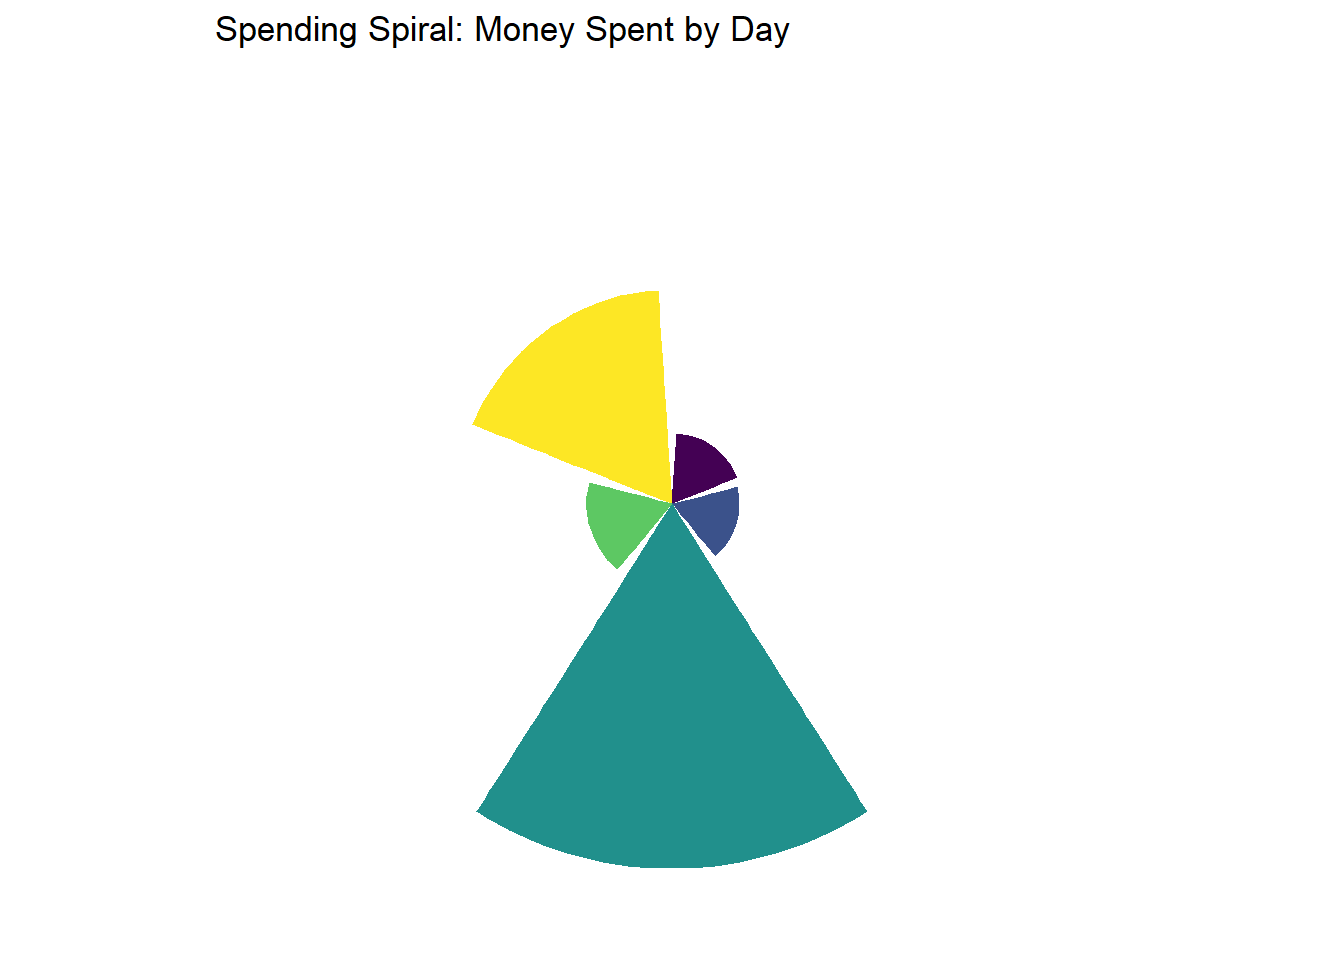
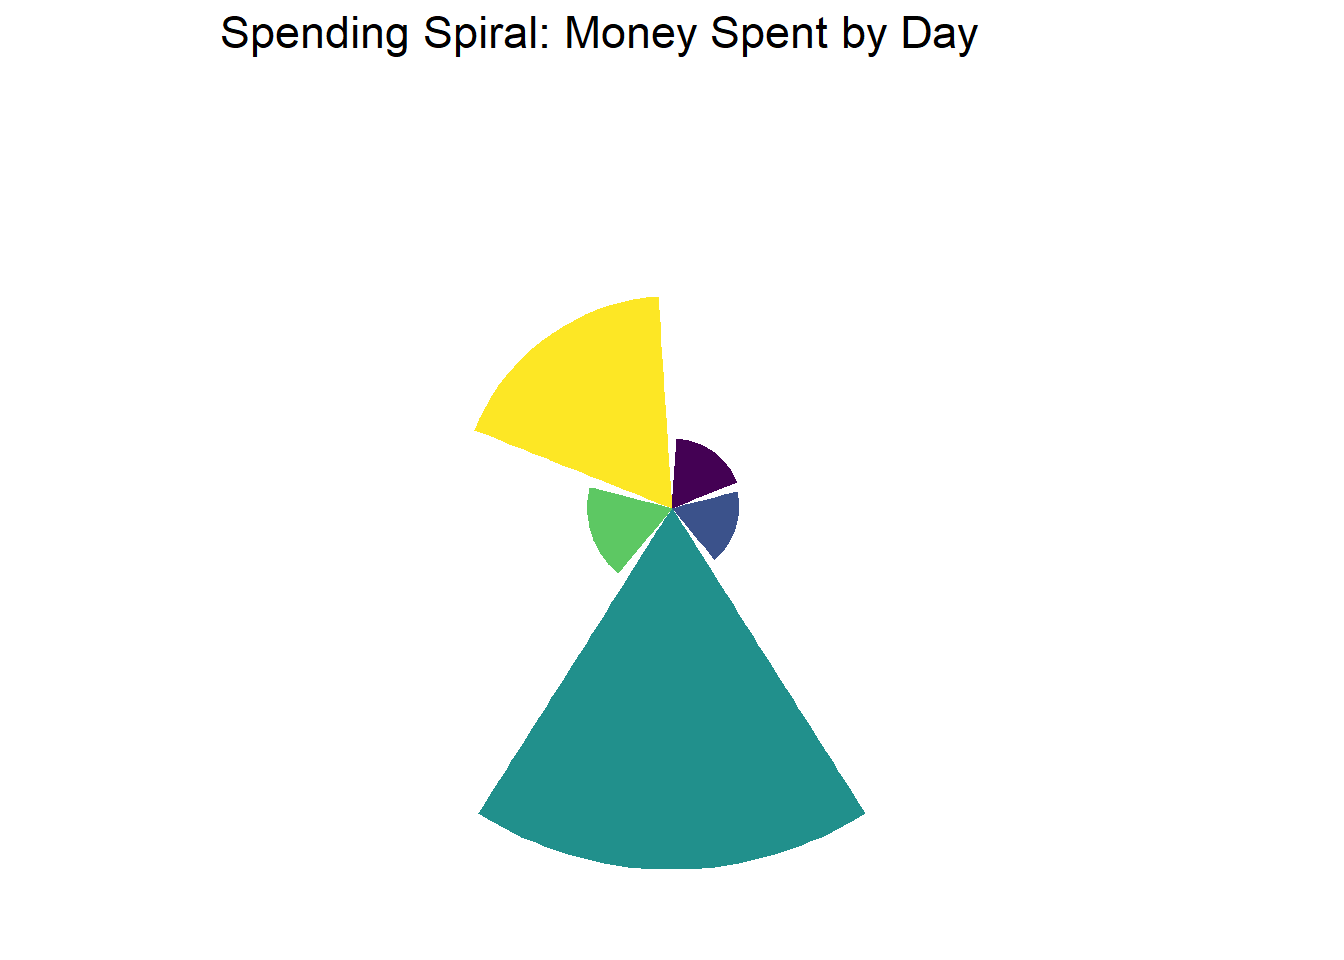
fixing something with my circle graph code and answering part 3b.

diff --git a/code/DS Homework 3.html b/code/DS Homework 3.html
@@ -176,7 +176,7 @@ pre > code.sourceCode > span > a:first-child::before { text-decoration: underlin
 <span id="cb4-6"><a href="#cb4-6" aria-hidden="true" tabindex="-1"></a>  <span class="fu">autofit</span>() <span class="sc">|&gt;</span> </span>
 <span id="cb4-7"><a href="#cb4-7" aria-hidden="true" tabindex="-1"></a>  <span class="fu">set_caption</span>(<span class="st">"Table 1. Average money spent on campus by weekday."</span>) <span class="co">#creating a caption for the table</span></span></code><button title="Copy to Clipboard" class="code-copy-button"><i class="bi"></i></button></pre></div>
 <div class="cell-output-display">
-<div class="tabwid"><style>.cl-f5296f3e{}.cl-f501cd9e{font-family:'Arial';font-size:11pt;font-weight:normal;font-style:normal;text-decoration:none;color:rgba(0, 0, 0, 1.00);background-color:transparent;}.cl-f511bfd8{margin:0;text-align:left;border-bottom: 0 solid rgba(0, 0, 0, 1.00);border-top: 0 solid rgba(0, 0, 0, 1.00);border-left: 0 solid rgba(0, 0, 0, 1.00);border-right: 0 solid rgba(0, 0, 0, 1.00);padding-bottom:5pt;padding-top:5pt;padding-left:5pt;padding-right:5pt;line-height: 1;background-color:transparent;}.cl-f511c000{margin:0;text-align:right;border-bottom: 0 solid rgba(0, 0, 0, 1.00);border-top: 0 solid rgba(0, 0, 0, 1.00);border-left: 0 solid rgba(0, 0, 0, 1.00);border-right: 0 solid rgba(0, 0, 0, 1.00);padding-bottom:5pt;padding-top:5pt;padding-left:5pt;padding-right:5pt;line-height: 1;background-color:transparent;}.cl-f5125254{width:1.16in;background-color:transparent;vertical-align: middle;border-bottom: 1.5pt solid rgba(102, 102, 102, 1.00);border-top: 1.5pt solid rgba(102, 102, 102, 1.00);border-left: 0 solid rgba(0, 0, 0, 1.00);border-right: 0 solid rgba(0, 0, 0, 1.00);margin-bottom:0;margin-top:0;margin-left:0;margin-right:0;}.cl-f5125268{width:1.542in;background-color:transparent;vertical-align: middle;border-bottom: 1.5pt solid rgba(102, 102, 102, 1.00);border-top: 1.5pt solid rgba(102, 102, 102, 1.00);border-left: 0 solid rgba(0, 0, 0, 1.00);border-right: 0 solid rgba(0, 0, 0, 1.00);margin-bottom:0;margin-top:0;margin-left:0;margin-right:0;}.cl-f5125272{width:1.16in;background-color:transparent;vertical-align: middle;border-bottom: 0 solid rgba(0, 0, 0, 1.00);border-top: 0 solid rgba(0, 0, 0, 1.00);border-left: 0 solid rgba(0, 0, 0, 1.00);border-right: 0 solid rgba(0, 0, 0, 1.00);margin-bottom:0;margin-top:0;margin-left:0;margin-right:0;}.cl-f5125273{width:1.542in;background-color:transparent;vertical-align: middle;border-bottom: 0 solid rgba(0, 0, 0, 1.00);border-top: 0 solid rgba(0, 0, 0, 1.00);border-left: 0 solid rgba(0, 0, 0, 1.00);border-right: 0 solid rgba(0, 0, 0, 1.00);margin-bottom:0;margin-top:0;margin-left:0;margin-right:0;}.cl-f512527c{width:1.16in;background-color:transparent;vertical-align: middle;border-bottom: 1.5pt solid rgba(102, 102, 102, 1.00);border-top: 0 solid rgba(0, 0, 0, 1.00);border-left: 0 solid rgba(0, 0, 0, 1.00);border-right: 0 solid rgba(0, 0, 0, 1.00);margin-bottom:0;margin-top:0;margin-left:0;margin-right:0;}.cl-f5125286{width:1.542in;background-color:transparent;vertical-align: middle;border-bottom: 1.5pt solid rgba(102, 102, 102, 1.00);border-top: 0 solid rgba(0, 0, 0, 1.00);border-left: 0 solid rgba(0, 0, 0, 1.00);border-right: 0 solid rgba(0, 0, 0, 1.00);margin-bottom:0;margin-top:0;margin-left:0;margin-right:0;}</style><table data-quarto-disable-processing="true" class="cl-f5296f3e"><thead><tr style="overflow-wrap:break-word;"><th class="cl-f5125254"><p class="cl-f511bfd8"><span class="cl-f501cd9e">Day of Week</span></p></th><th class="cl-f5125268"><p class="cl-f511c000"><span class="cl-f501cd9e">Mean Spending($)</span></p></th></tr></thead><tbody><tr style="overflow-wrap:break-word;"><td class="cl-f5125272"><p class="cl-f511bfd8"><span class="cl-f501cd9e">Friday</span></p></td><td class="cl-f5125273"><p class="cl-f511c000"><span class="cl-f501cd9e">5.875</span></p></td></tr><tr style="overflow-wrap:break-word;"><td class="cl-f5125272"><p class="cl-f511bfd8"><span class="cl-f501cd9e">Monday</span></p></td><td class="cl-f5125273"><p class="cl-f511c000"><span class="cl-f501cd9e">2.875</span></p></td></tr><tr style="overflow-wrap:break-word;"><td class="cl-f5125272"><p class="cl-f511bfd8"><span class="cl-f501cd9e">Thursday</span></p></td><td class="cl-f5125273"><p class="cl-f511c000"><span class="cl-f501cd9e">10.985</span></p></td></tr><tr style="overflow-wrap:break-word;"><td class="cl-f5125272"><p class="cl-f511bfd8"><span class="cl-f501cd9e">Tuesday</span></p></td><td class="cl-f5125273"><p class="cl-f511c000"><span class="cl-f501cd9e">5.396</span></p></td></tr><tr style="overflow-wrap:break-word;"><td class="cl-f512527c"><p class="cl-f511bfd8"><span class="cl-f501cd9e">Wednesday</span></p></td><td class="cl-f5125286"><p class="cl-f511c000"><span class="cl-f501cd9e">10.245</span></p></td></tr></tbody></table></div>
+<div class="tabwid"><style>.cl-fe0e3948{}.cl-fdf35826{font-family:'Arial';font-size:11pt;font-weight:normal;font-style:normal;text-decoration:none;color:rgba(0, 0, 0, 1.00);background-color:transparent;}.cl-fdfd5f6a{margin:0;text-align:left;border-bottom: 0 solid rgba(0, 0, 0, 1.00);border-top: 0 solid rgba(0, 0, 0, 1.00);border-left: 0 solid rgba(0, 0, 0, 1.00);border-right: 0 solid rgba(0, 0, 0, 1.00);padding-bottom:5pt;padding-top:5pt;padding-left:5pt;padding-right:5pt;line-height: 1;background-color:transparent;}.cl-fdfd5f92{margin:0;text-align:right;border-bottom: 0 solid rgba(0, 0, 0, 1.00);border-top: 0 solid rgba(0, 0, 0, 1.00);border-left: 0 solid rgba(0, 0, 0, 1.00);border-right: 0 solid rgba(0, 0, 0, 1.00);padding-bottom:5pt;padding-top:5pt;padding-left:5pt;padding-right:5pt;line-height: 1;background-color:transparent;}.cl-fdfdd594{width:1.16in;background-color:transparent;vertical-align: middle;border-bottom: 1.5pt solid rgba(102, 102, 102, 1.00);border-top: 1.5pt solid rgba(102, 102, 102, 1.00);border-left: 0 solid rgba(0, 0, 0, 1.00);border-right: 0 solid rgba(0, 0, 0, 1.00);margin-bottom:0;margin-top:0;margin-left:0;margin-right:0;}.cl-fdfdd5a8{width:1.542in;background-color:transparent;vertical-align: middle;border-bottom: 1.5pt solid rgba(102, 102, 102, 1.00);border-top: 1.5pt solid rgba(102, 102, 102, 1.00);border-left: 0 solid rgba(0, 0, 0, 1.00);border-right: 0 solid rgba(0, 0, 0, 1.00);margin-bottom:0;margin-top:0;margin-left:0;margin-right:0;}.cl-fdfdd5b2{width:1.16in;background-color:transparent;vertical-align: middle;border-bottom: 0 solid rgba(0, 0, 0, 1.00);border-top: 0 solid rgba(0, 0, 0, 1.00);border-left: 0 solid rgba(0, 0, 0, 1.00);border-right: 0 solid rgba(0, 0, 0, 1.00);margin-bottom:0;margin-top:0;margin-left:0;margin-right:0;}.cl-fdfdd5b3{width:1.542in;background-color:transparent;vertical-align: middle;border-bottom: 0 solid rgba(0, 0, 0, 1.00);border-top: 0 solid rgba(0, 0, 0, 1.00);border-left: 0 solid rgba(0, 0, 0, 1.00);border-right: 0 solid rgba(0, 0, 0, 1.00);margin-bottom:0;margin-top:0;margin-left:0;margin-right:0;}.cl-fdfdd5c6{width:1.16in;background-color:transparent;vertical-align: middle;border-bottom: 1.5pt solid rgba(102, 102, 102, 1.00);border-top: 0 solid rgba(0, 0, 0, 1.00);border-left: 0 solid rgba(0, 0, 0, 1.00);border-right: 0 solid rgba(0, 0, 0, 1.00);margin-bottom:0;margin-top:0;margin-left:0;margin-right:0;}.cl-fdfdd5c7{width:1.542in;background-color:transparent;vertical-align: middle;border-bottom: 1.5pt solid rgba(102, 102, 102, 1.00);border-top: 0 solid rgba(0, 0, 0, 1.00);border-left: 0 solid rgba(0, 0, 0, 1.00);border-right: 0 solid rgba(0, 0, 0, 1.00);margin-bottom:0;margin-top:0;margin-left:0;margin-right:0;}</style><table data-quarto-disable-processing="true" class="cl-fe0e3948"><thead><tr style="overflow-wrap:break-word;"><th class="cl-fdfdd594"><p class="cl-fdfd5f6a"><span class="cl-fdf35826">Day of Week</span></p></th><th class="cl-fdfdd5a8"><p class="cl-fdfd5f92"><span class="cl-fdf35826">Mean Spending($)</span></p></th></tr></thead><tbody><tr style="overflow-wrap:break-word;"><td class="cl-fdfdd5b2"><p class="cl-fdfd5f6a"><span class="cl-fdf35826">Friday</span></p></td><td class="cl-fdfdd5b3"><p class="cl-fdfd5f92"><span class="cl-fdf35826">5.875</span></p></td></tr><tr style="overflow-wrap:break-word;"><td class="cl-fdfdd5b2"><p class="cl-fdfd5f6a"><span class="cl-fdf35826">Monday</span></p></td><td class="cl-fdfdd5b3"><p class="cl-fdfd5f92"><span class="cl-fdf35826">2.875</span></p></td></tr><tr style="overflow-wrap:break-word;"><td class="cl-fdfdd5b2"><p class="cl-fdfd5f6a"><span class="cl-fdf35826">Thursday</span></p></td><td class="cl-fdfdd5b3"><p class="cl-fdfd5f92"><span class="cl-fdf35826">10.985</span></p></td></tr><tr style="overflow-wrap:break-word;"><td class="cl-fdfdd5b2"><p class="cl-fdfd5f6a"><span class="cl-fdf35826">Tuesday</span></p></td><td class="cl-fdfdd5b3"><p class="cl-fdfd5f92"><span class="cl-fdf35826">5.396</span></p></td></tr><tr style="overflow-wrap:break-word;"><td class="cl-fdfdd5c6"><p class="cl-fdfd5f6a"><span class="cl-fdf35826">Wednesday</span></p></td><td class="cl-fdfdd5c7"><p class="cl-fdfd5f92"><span class="cl-fdf35826">10.245</span></p></td></tr></tbody></table></div>
 </div>
 </div>
 </section>
@@ -212,33 +212,14 @@ pre > code.sourceCode > span > a:first-child::before { text-decoration: underlin
 <span id="cb7-6"><a href="#cb7-6" aria-hidden="true" tabindex="-1"></a>  <span class="fu">coord_polar</span>() <span class="sc">+</span> <span class="co">#changing the bar graph to circle </span></span>
 <span id="cb7-7"><a href="#cb7-7" aria-hidden="true" tabindex="-1"></a>  <span class="fu">theme_void</span>() <span class="sc">+</span> <span class="co">#theme</span></span>
 <span id="cb7-8"><a href="#cb7-8" aria-hidden="true" tabindex="-1"></a>  <span class="fu">scale_fill_viridis_d</span>() <span class="sc">+</span></span>
-<span id="cb7-9"><a href="#cb7-9" aria-hidden="true" tabindex="-1"></a>  <span class="fu">labs</span>(<span class="at">title =</span> <span class="st">"Spending Spiral: Money Spent by Day"</span>)<span class="co"># title </span></span></code><button title="Copy to Clipboard" class="code-copy-button"><i class="bi"></i></button></pre></div>
+<span id="cb7-9"><a href="#cb7-9" aria-hidden="true" tabindex="-1"></a>  <span class="fu">labs</span>(<span class="at">title =</span> <span class="st">"Spending Spiral: Money Spent by Day"</span>) <span class="sc">+</span><span class="co"># title </span></span>
+<span id="cb7-10"><a href="#cb7-10" aria-hidden="true" tabindex="-1"></a>  <span class="fu">theme</span>(<span class="at">title =</span> <span class="fu">element_text</span>(<span class="at">size =</span><span class="dv">14</span>))<span class="co"># changing the size of title</span></span></code><button title="Copy to Clipboard" class="code-copy-button"><i class="bi"></i></button></pre></div>
 <div class="cell-output-display">
 <div>
 <figure class="figure">
 <p><img src="DS-Homework-3_files/figure-html/unnamed-chunk-4-1.png" class="img-fluid figure-img" width="672"></p>
 </figure>
 </div>
-</div>
-<div class="sourceCode cell-code" id="cb8"><pre class="sourceCode r code-with-copy"><code class="sourceCode r"><span id="cb8-1"><a href="#cb8-1" aria-hidden="true" tabindex="-1"></a>  <span class="fu">theme</span>(<span class="at">title =</span> <span class="fu">element_text</span>(<span class="at">size =</span><span class="dv">14</span>))<span class="co">#changing the size of title</span></span></code><button title="Copy to Clipboard" class="code-copy-button"><i class="bi"></i></button></pre></div>
-<div class="cell-output cell-output-stdout">
-<pre><code>List of 1
- $ title:List of 11
-  ..$ family       : NULL
-  ..$ face         : NULL
-  ..$ colour       : NULL
-  ..$ size         : num 14
-  ..$ hjust        : NULL
-  ..$ vjust        : NULL
-  ..$ angle        : NULL
-  ..$ lineheight   : NULL
-  ..$ margin       : NULL
-  ..$ debug        : NULL
-  ..$ inherit.blank: logi FALSE
-  ..- attr(*, "class")= chr [1:2] "element_text" "element"
- - attr(*, "class")= chr [1:2] "theme" "gg"
- - attr(*, "complete")= logi FALSE
- - attr(*, "validate")= logi TRUE</code></pre>
 </div>
 </div>
 </section>
@@ -251,9 +232,9 @@ pre > code.sourceCode > span > a:first-child::before { text-decoration: underlin
 <h1>Problem 3. Statistical critique</h1>
 <section id="a.-revisit-and-summarize" class="level2">
 <h2 class="anchored" data-anchor-id="a.-revisit-and-summarize">a. Revisit and summarize</h2>
-<p>They did a regression with the plant-pollinator asynchrony against the year. The predictor variable is the indication that species shoe response diversity or differential changes th their asunchrony with apple bloom over time.</p>
+<p>They did a regression with the plant-pollinator asynchrony against the year. The predictor variable is the indication that species shoe response diversity or differential changes of their asunchrony with apple bloom over time.This allowed them to test whether biodiversity stabilizes synchrony despite climate change.</p>
 <div class="cell">
-<div class="sourceCode cell-code" id="cb10"><pre class="sourceCode r code-with-copy"><code class="sourceCode r"><span id="cb10-1"><a href="#cb10-1" aria-hidden="true" tabindex="-1"></a><span class="fu">grid.raster</span>(<span class="fu">readPNG</span>(<span class="fu">here</span>(<span class="st">"Stat_test.png"</span>)))</span></code><button title="Copy to Clipboard" class="code-copy-button"><i class="bi"></i></button></pre></div>
+<div class="sourceCode cell-code" id="cb8"><pre class="sourceCode r code-with-copy"><code class="sourceCode r"><span id="cb8-1"><a href="#cb8-1" aria-hidden="true" tabindex="-1"></a><span class="fu">grid.raster</span>(<span class="fu">readPNG</span>(<span class="fu">here</span>(<span class="st">"Stat_test.png"</span>)))</span></code><button title="Copy to Clipboard" class="code-copy-button"><i class="bi"></i></button></pre></div>
 <div class="cell-output-display">
 <div>
 <figure class="figure">
@@ -263,7 +244,7 @@ pre > code.sourceCode > span > a:first-child::before { text-decoration: underlin
 </div>
 </div>
 <div class="cell">
-<div class="sourceCode cell-code" id="cb11"><pre class="sourceCode r code-with-copy"><code class="sourceCode r"><span id="cb11-1"><a href="#cb11-1" aria-hidden="true" tabindex="-1"></a><span class="fu">grid.raster</span>(<span class="fu">readPNG</span>(<span class="fu">here</span>(<span class="st">"Stat_test_caption.png"</span>)))</span></code><button title="Copy to Clipboard" class="code-copy-button"><i class="bi"></i></button></pre></div>
+<div class="sourceCode cell-code" id="cb9"><pre class="sourceCode r code-with-copy"><code class="sourceCode r"><span id="cb9-1"><a href="#cb9-1" aria-hidden="true" tabindex="-1"></a><span class="fu">grid.raster</span>(<span class="fu">readPNG</span>(<span class="fu">here</span>(<span class="st">"Stat_test_caption.png"</span>)))</span></code><button title="Copy to Clipboard" class="code-copy-button"><i class="bi"></i></button></pre></div>
 <div class="cell-output-display">
 <div>
 <figure class="figure">
@@ -275,6 +256,7 @@ pre > code.sourceCode > span > a:first-child::before { text-decoration: underlin
 </section>
 <section id="b.-visual-clarity" class="level2">
 <h2 class="anchored" data-anchor-id="b.-visual-clarity">b. Visual clarity</h2>
+<p>Figure 3 clearly displays the distribution of bee activity relative to peak apple bloom, using a boxplot format with a reference line for bloom bate. The x-axis groups bees by genus, and the y-axis shows the number of days relative to the bloom, making it easy to compare phonological timing. The visual format effectively communicates which genera are most synchronized.</p>
 </section>
 <section id="c.-aesthetic-clarity" class="level2">
 <h2 class="anchored" data-anchor-id="c.-aesthetic-clarity">c.&nbsp;Aesthetic clarity</h2>
